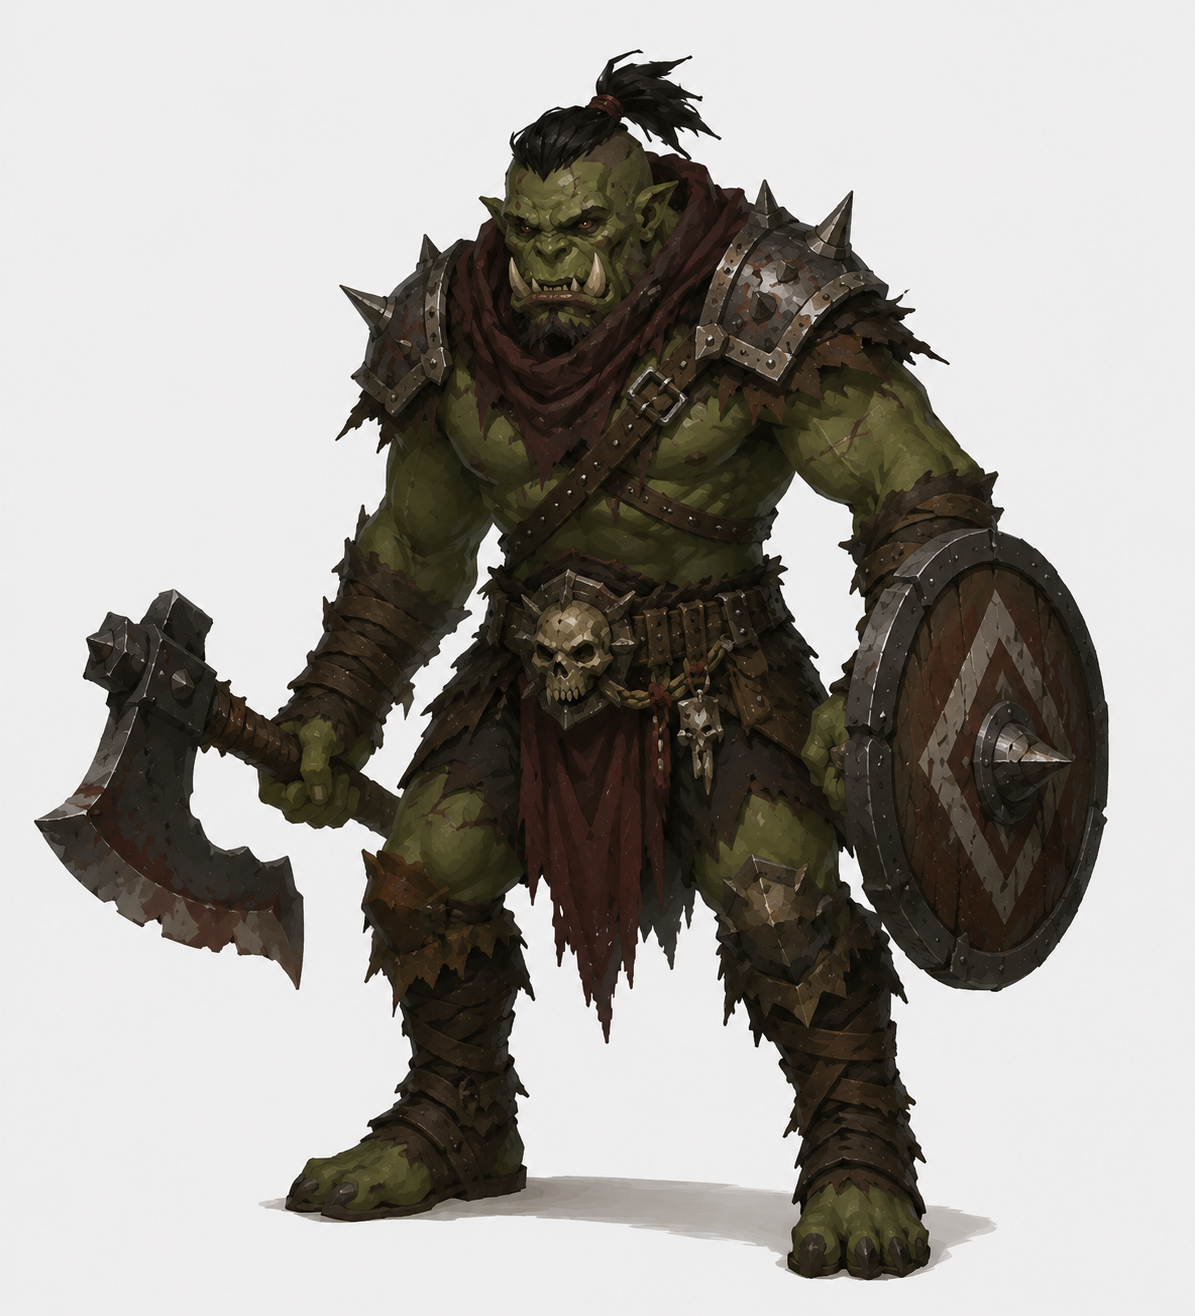
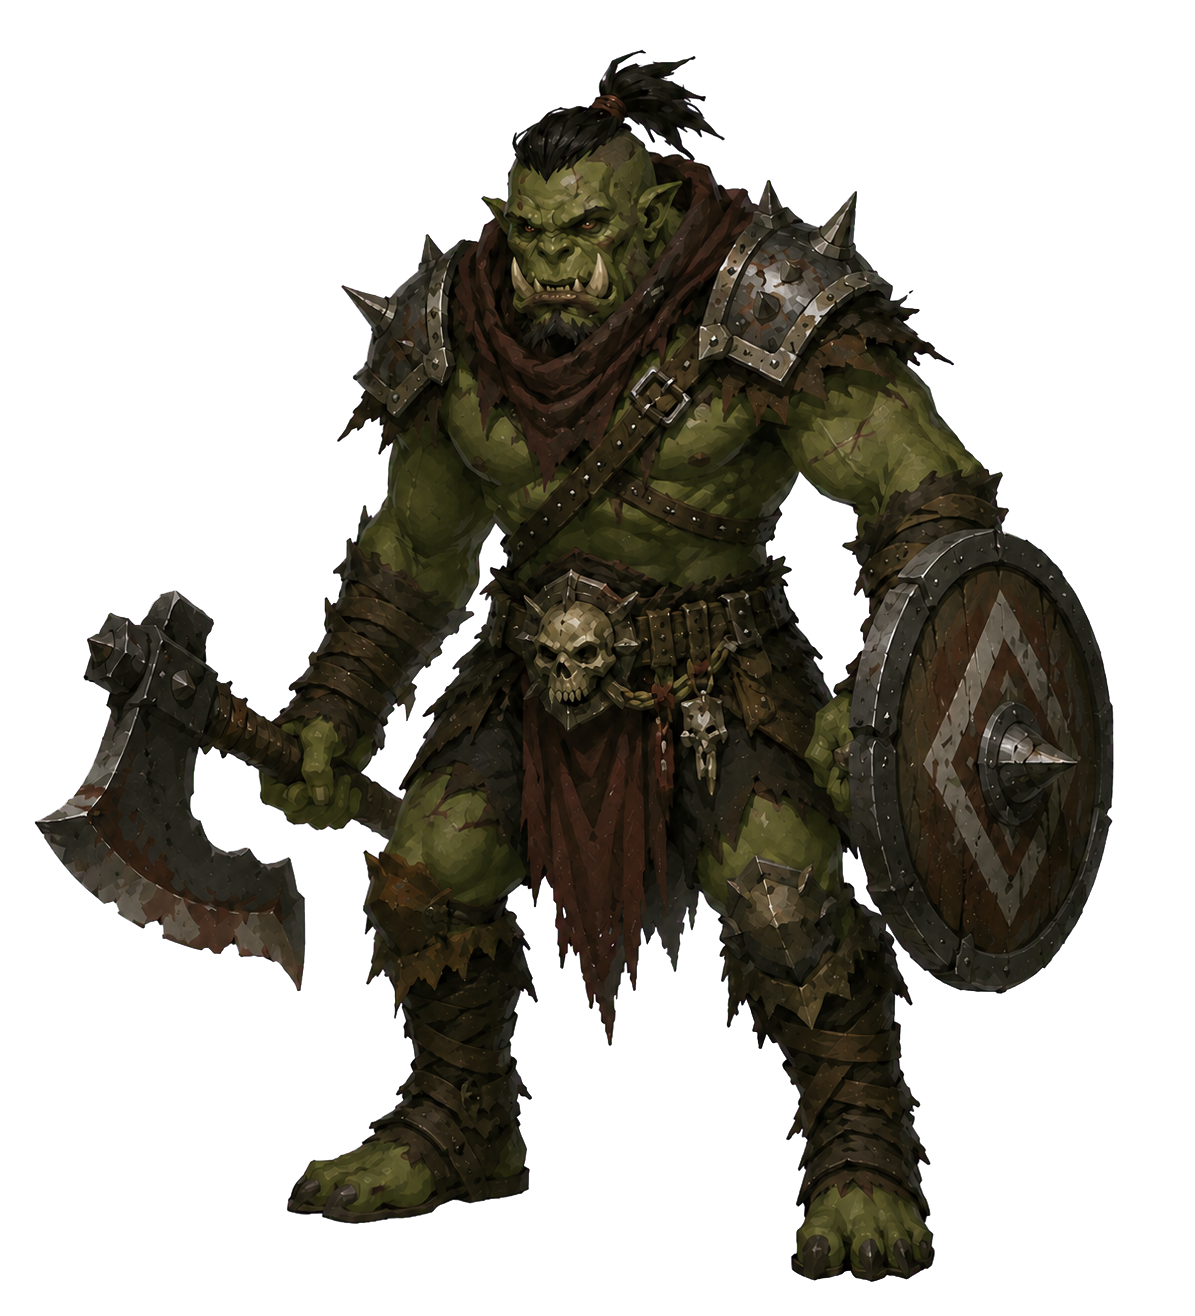
套用哥布林專圖並去背平原怪物

diff --git a/styles/dungeon.css b/styles/dungeon.css
@@ -30,12 +30,12 @@
 .enemy-art.plains-goblin-young-art{display:block;width:118px!important;height:126px!important;background:url('../assets/plains-goblin-young.png?v=20260724-user-image-v1') center/contain no-repeat;filter:drop-shadow(0 8px 7px rgba(0,0,0,.46));animation:goblinIdle 1.9s ease-in-out infinite}
 .enemy-art.lost-goblin-art{display:block;width:130px!important;height:138px!important;background:url('../assets/lost-goblin.png?v=20260724-user-image-v1') center/contain no-repeat;filter:brightness(1.06) saturate(1.16) drop-shadow(0 0 12px rgba(255,207,83,.58)) drop-shadow(0 9px 7px rgba(0,0,0,.5));animation:goblinIdle 2.15s ease-in-out infinite}
 .enemy-art.goblin-camp-scout-art{display:block;width:142px!important;height:152px!important;background:url('../assets/goblin-camp-scout.png?v=20260728-user-image-v1') center/contain no-repeat;filter:drop-shadow(0 9px 8px rgba(0,0,0,.55));animation:goblinIdle 2.05s ease-in-out infinite}
-.enemy-art.plains-depths-blackstone-scout-art{display:block;width:142px!important;height:152px!important;background:url('../assets/plains-depths-blackstone-scout.png?v=20260729-user-image-v1') center/contain no-repeat;filter:drop-shadow(0 9px 8px rgba(0,0,0,.55));animation:goblinIdle 2.05s ease-in-out infinite}
-.enemy-art.plains-depths-blackstone-raider-art{display:block;width:150px!important;height:162px!important;background:url('../assets/plains-depths-blackstone-raider.png?v=20260729-user-image-v1') center/contain no-repeat;filter:drop-shadow(0 10px 9px rgba(0,0,0,.62)) drop-shadow(0 0 10px rgba(145,47,35,.42));animation:goblinIdle 1.9s ease-in-out infinite}
-.enemy-art.plains-depths-blackstone-leader-art{display:block;width:162px!important;height:176px!important;background:url('../assets/plains-depths-blackstone-leader.png?v=20260729-user-image-v1') center/contain no-repeat;filter:drop-shadow(0 12px 10px rgba(0,0,0,.68)) drop-shadow(0 0 15px rgba(191,54,38,.58));animation:goblinIdle 1.75s ease-in-out infinite}
-.enemy-art.plains-depths-grassland-vulture-art{display:block;width:158px!important;height:148px!important;background:url('../assets/plains-depths-grassland-vulture.png?v=20260729-user-image-v1') center/contain no-repeat;filter:drop-shadow(0 12px 9px rgba(0,0,0,.58));animation:goblinIdle 1.65s ease-in-out infinite}
-.enemy-art.plains-depths-highland-wolf-art{display:block;width:154px!important;height:146px!important;background:url('../assets/plains-depths-highland-wolf.png?v=20260729-user-image-v1') center/contain no-repeat;filter:drop-shadow(0 10px 8px rgba(0,0,0,.58));animation:goblinIdle 1.85s ease-in-out infinite}
-.enemy-art.plains-depths-rockback-boar-art{display:block;width:158px!important;height:150px!important;background:url('../assets/plains-depths-rockback-boar.png?v=20260729-user-image-v1') center/contain no-repeat;filter:drop-shadow(0 11px 9px rgba(0,0,0,.64));animation:goblinIdle 2s ease-in-out infinite}
+.enemy-art.plains-depths-blackstone-scout-art{display:block;width:142px!important;height:152px!important;background:url('../assets/plains-depths-blackstone-scout.png?v=20260729-transparent-v2') center/contain no-repeat;filter:drop-shadow(0 9px 8px rgba(0,0,0,.55));animation:goblinIdle 2.05s ease-in-out infinite}
+.enemy-art.plains-depths-blackstone-raider-art{display:block;width:150px!important;height:162px!important;background:url('../assets/plains-depths-blackstone-raider.png?v=20260729-transparent-v2') center/contain no-repeat;filter:drop-shadow(0 10px 9px rgba(0,0,0,.62)) drop-shadow(0 0 10px rgba(145,47,35,.42));animation:goblinIdle 1.9s ease-in-out infinite}
+.enemy-art.plains-depths-blackstone-leader-art{display:block;width:162px!important;height:176px!important;background:url('../assets/plains-depths-blackstone-leader.png?v=20260729-transparent-v2') center/contain no-repeat;filter:drop-shadow(0 12px 10px rgba(0,0,0,.68)) drop-shadow(0 0 15px rgba(191,54,38,.58));animation:goblinIdle 1.75s ease-in-out infinite}
+.enemy-art.plains-depths-grassland-vulture-art{display:block;width:158px!important;height:148px!important;background:url('../assets/plains-depths-grassland-vulture.png?v=20260729-transparent-v2') center/contain no-repeat;filter:drop-shadow(0 12px 9px rgba(0,0,0,.58));animation:goblinIdle 1.65s ease-in-out infinite}
+.enemy-art.plains-depths-highland-wolf-art{display:block;width:154px!important;height:146px!important;background:url('../assets/plains-depths-highland-wolf.png?v=20260729-transparent-v2') center/contain no-repeat;filter:drop-shadow(0 10px 8px rgba(0,0,0,.58));animation:goblinIdle 1.85s ease-in-out infinite}
+.enemy-art.plains-depths-rockback-boar-art{display:block;width:158px!important;height:150px!important;background:url('../assets/plains-depths-rockback-boar.png?v=20260729-transparent-v2') center/contain no-repeat;filter:drop-shadow(0 11px 9px rgba(0,0,0,.64));animation:goblinIdle 2s ease-in-out infinite}
 .enemy-art.goblin-camp-warrior-art{display:block;width:148px!important;height:158px!important;background:url('../assets/goblin-camp-warrior.png?v=20260728-user-image-v1') center/contain no-repeat;filter:drop-shadow(0 10px 9px rgba(0,0,0,.58));animation:goblinIdle 2.15s ease-in-out infinite}
 .enemy-art.goblin-camp-shaman-art{display:block;width:160px!important;height:170px!important;background:url('../assets/goblin-camp-shaman.png?v=20260728-user-image-v1') center/contain no-repeat;filter:drop-shadow(0 0 13px rgba(151,255,117,.32)) drop-shadow(0 10px 9px rgba(0,0,0,.6));animation:goblinIdle 2.25s ease-in-out infinite}
 .enemy-art.goblin-camp-guard-art{display:block;width:166px!important;height:176px!important;background:url('../assets/goblin-camp-guard.png?v=20260728-user-image-v2') center/contain no-repeat;filter:drop-shadow(0 0 12px rgba(174,151,255,.3)) drop-shadow(0 11px 10px rgba(0,0,0,.64));animation:goblinIdle 2.35s ease-in-out infinite}

diff --git a/monster-display-policy.js b/monster-display-policy.js
@@ -17,14 +17,14 @@
     irritableBoar: 'assets/boar-woods-irritable-boar.png?v=20260726-user-image-v1',
     boarKing: 'assets/boar-woods-giant-tusk-boar-v2.png?v=20260726-user-image-v2',
     goblin: 'assets/goblin-transparent.png',
-    goblinScout: 'assets/goblin-transparent.png',
-    goblinWarrior: 'assets/goblin-transparent.png',
-    goblinSlinger: 'assets/goblin-transparent.png',
-    goblinShaman: 'assets/goblin-transparent.png',
-    goblinGuard: 'assets/goblin-transparent.png',
-    goblinCaptain: 'assets/goblin-transparent.png',
+    goblinScout: 'assets/goblin-camp-scout.png?v=20260729-dedicated-image-v1',
+    goblinWarrior: 'assets/goblin-camp-warrior.png?v=20260729-dedicated-image-v1',
+    goblinSlinger: 'assets/goblin-camp-slinger.png?v=20260729-dedicated-image-v1',
+    goblinShaman: 'assets/goblin-camp-shaman.png?v=20260729-dedicated-image-v1',
+    goblinGuard: 'assets/goblin-camp-guard.png?v=20260729-dedicated-image-v1',
+    goblinCaptain: 'assets/goblin-camp-captain.png?v=20260729-dedicated-image-v1',
     goblinTreasureChest: 'assets/goblin-transparent.png',
-    goblinHighChief: 'assets/goblin-transparent.png',
+    goblinHighChief: 'assets/goblin-camp-high-chief.png?v=20260729-dedicated-image-v1',
     wolf: 'assets/forest-wolf.png',
     boar: 'assets/wild-boar.png',
     goblinOverlord: 'assets/goblin-transparent.png',
@@ -43,13 +43,13 @@
     moonboneSentinel: 'assets/dungeon-moonbone.png',
     blightOracle: 'assets/dungeon-oracle.png',
     eclipseSovereign: 'assets/dungeon-boss.png',
-    highlandWolf: 'assets/plains-depths-highland-wolf.png?v=20260729-user-image-v1',
-    rockbackBoar: 'assets/plains-depths-rockback-boar.png?v=20260729-user-image-v1',
-    blackstoneScout: 'assets/plains-depths-blackstone-scout.png?v=20260729-user-image-v1',
-    grasslandVulture: 'assets/plains-depths-grassland-vulture.png?v=20260729-user-image-v1',
-    blackstoneRaider: 'assets/plains-depths-blackstone-raider.png?v=20260729-user-image-v1',
+    highlandWolf: 'assets/plains-depths-highland-wolf.png?v=20260729-transparent-v2',
+    rockbackBoar: 'assets/plains-depths-rockback-boar.png?v=20260729-transparent-v2',
+    blackstoneScout: 'assets/plains-depths-blackstone-scout.png?v=20260729-transparent-v2',
+    grasslandVulture: 'assets/plains-depths-grassland-vulture.png?v=20260729-transparent-v2',
+    blackstoneRaider: 'assets/plains-depths-blackstone-raider.png?v=20260729-transparent-v2',
     wanderingBlackKnight: 'assets/plains-depths-wandering-black-knight.png?v=20260729-user-image-v1',
-    blackstoneLeader: 'assets/plains-depths-blackstone-leader.png?v=20260729-user-image-v1'
+    blackstoneLeader: 'assets/plains-depths-blackstone-leader.png?v=20260729-transparent-v2'
   });
 
   const STATUS_DISPLAY = Object.freeze({

diff --git a/index.html b/index.html
@@ -15,7 +15,7 @@
   <link rel="stylesheet" href="styles/sidebar-v2.css" />
   <link rel="stylesheet" href="styles/sidebar-layout.css" />
   <link rel="stylesheet" href="styles/enhancement.css" />
-  <link rel="stylesheet" href="styles/dungeon.css?v=20260729-rockback-boar-v23" />
+  <link rel="stylesheet" href="styles/dungeon.css?v=20260729-transparent-monsters-v24" />
   <link rel="stylesheet" href="styles/mobile.css?v=20260728-mobile-log-flow-v6" />
   <link rel="stylesheet" href="styles/mmorpg-layout.css?v=20260727-wolf-den-background-v39" />
   <link rel="stylesheet" href="styles/monster-slots.css?v=20260727-no-replacement-motion-v4" />
@@ -188,7 +188,7 @@
   <script src="assassin-energy-policy.js?v=20260728-assassin-energy-v1"></script>
   <script src="hunter-arrow-policy.js?v=20260729-rough-quiver-v2"></script>
   <script src="collectible-policy.js?v=20260727-unique-monster-collectibles-v1"></script>
-  <script src="monster-display-policy.js?v=20260729-plains-depths-images-v2"></script>
+  <script src="monster-display-policy.js?v=20260729-dedicated-transparent-images-v3"></script>
   <script src="dungeon-ticket.js?v=20260727-goblin-camp-wave-roster-v4"></script>
   <script src="script.js?v=20260729-plains-depths-offhands-v92"></script>
 </body>

diff --git a/tests/monster-display-policy.test.js b/tests/monster-display-policy.test.js
@@ -16,6 +16,12 @@ monsterIds.forEach((monsterId) => {
 ].forEach((monsterId) => {
   assert.ok(!displayPolicy.MONSTER_IMAGE_BY_TYPE[monsterId].includes('monster-placeholder'), `${monsterId} uses dedicated combat art`);
 });
+[
+  'goblinScout', 'goblinWarrior', 'goblinSlinger', 'goblinShaman',
+  'goblinGuard', 'goblinCaptain', 'goblinHighChief'
+].forEach((monsterId) => {
+  assert.ok(displayPolicy.MONSTER_IMAGE_BY_TYPE[monsterId].includes('goblin-camp-'), `${monsterId} uses dedicated goblin-camp combat art`);
+});
 assert.equal(displayPolicy.getMonsterLevel({ min: 3, max: 5 }, 1), 3, 'monster level does not fall below the map minimum');
 assert.equal(displayPolicy.getMonsterLevel({ min: 3, max: 5 }, 4), 4, 'monster level follows player level inside the map range');
 assert.equal(displayPolicy.getMonsterLevel({ min: 3, max: 5 }, 8), 5, 'monster level does not exceed the map maximum');
